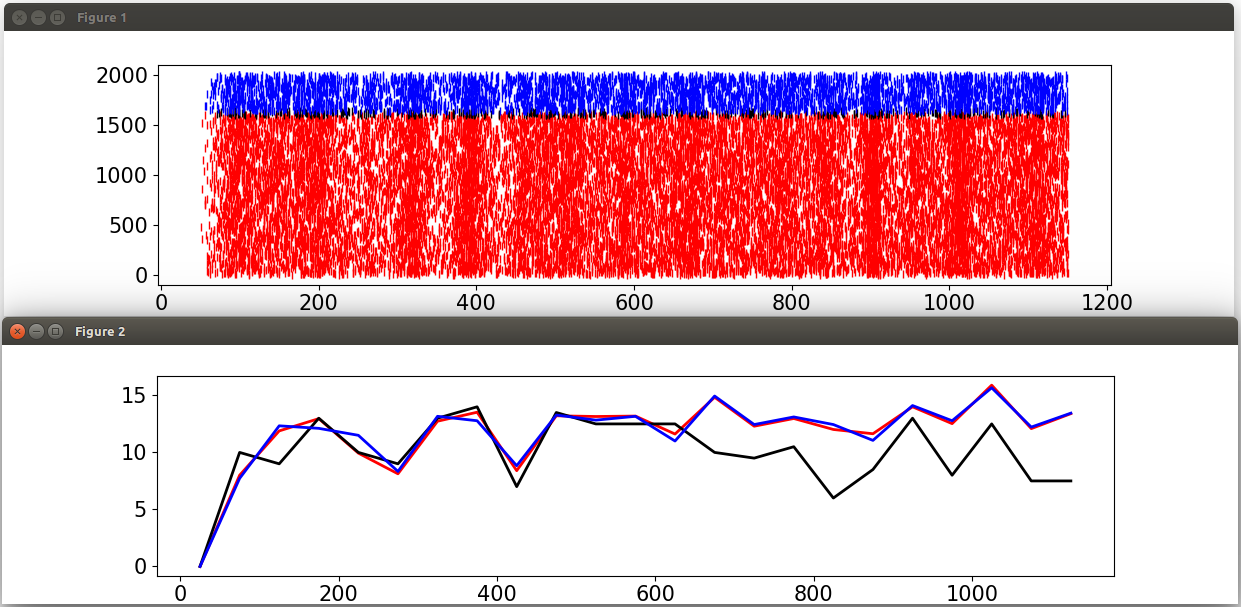
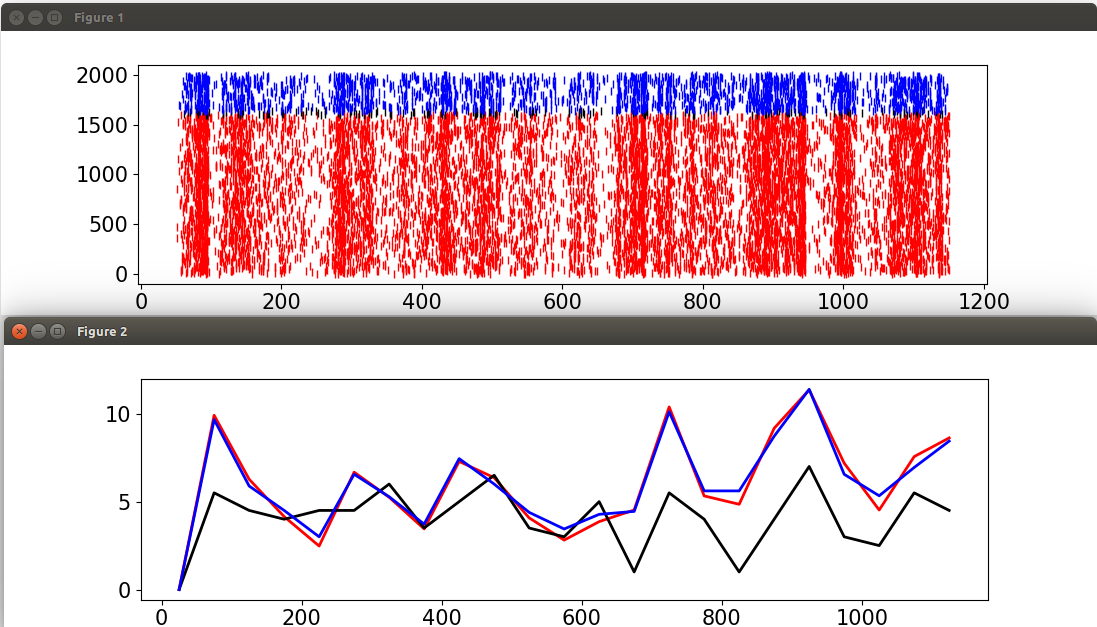
Adding changes by @sdrsd for testing 500 cell network

diff --git a/PyNN/runNetwork.py b/PyNN/runNetwork.py
@@ -19,7 +19,7 @@ def runNetwork(Be,
                dt = defaultParams.dt, 
                N_rec_v = 5, 
                save=False, 
-               simtime = defaultParams.Tstim+defaultParams.Tblank+defaultParams.Ttrans, 
+               simtime = defaultParams.Tpost+defaultParams.Tstim+defaultParams.Tblank+defaultParams.Ttrans, 
                extra = {}):
     
     exec("from pyNN.%s import *" % simulator_name) in globals()
@@ -44,9 +44,8 @@ def runNetwork(Be,
     r_extra = np.zeros(N)
     r_extra[NE:NE+nn_stim] = defaultParams.r_stim
 
-    rr1 = defaultParams.r_bkg*np.ones(N)
+    rr1 = defaultParams.r_bkg*np.random.uniform(.75,1.25, N)
     rr2 = rr1 + r_extra
-    
     
     rank = setup(timestep=dt, max_delay=defaultParams.delay_default, reference='ISN', **extra)
     
@@ -66,7 +65,7 @@ def runNetwork(Be,
     timer.start()  # start timer on construction
     
     print("%d Setting up random number generator" % rank)
-    kernelseed = 123456
+    kernelseed = 123
     rng = NumpyRNG(kernelseed, parallel_safe=True)
     
     
@@ -113,11 +112,15 @@ def runNetwork(Be,
     
     p_rate = defaultParams.r_bkg+defaultParams.r_stim
     print("%d Creating excitatory Poisson generator with rate %g spikes/s." % (rank, p_rate))
-    source_typeC = SpikeSourcePoisson(rate=p_rate, start=defaultParams.Ttrans+defaultParams.Tblank)
+    source_typeC = SpikeSourcePoisson(rate=p_rate, start=defaultParams.Ttrans+defaultParams.Tblank, duration=defaultParams.Tstim)
     expoissonC = Population(nn_stim, source_typeC, label="pert_stim")
+
+    p_rate = defaultParams.r_bkg
+    print("%d Creating excitatory Poisson generator with rate %g spikes/s." % (rank, p_rate))
+    source_typeD = SpikeSourcePoisson(rate=p_rate, start=defaultParams.Ttrans+defaultParams.Tblank+defaultParams.Tstim)
+    expoissonD = Population(nn_stim, source_typeD, label="pert_poststim")
     
-    
-    
+
     progress_bar = ProgressBar(width=20)
     connector_E = FixedProbabilityConnector(0.15, rng=rng, callback=progress_bar)
     connector_I = FixedProbabilityConnector(1, rng=rng, callback=progress_bar)
@@ -137,9 +140,9 @@ def runNetwork(Be,
     print("E --> E\t\t", len(E_to_E), "connections")
     E_to_I = Projection(E_pop, I_pop, connector_E, EI_syn, receptor_type="excitatory")
     print("E --> I\t\t", len(E_to_I), "connections")
-    I_to_I = Projection(I_pop, I_pop, connector_I, II_syn, receptor_type="excitatory")
+    I_to_I = Projection(I_pop, I_pop, connector_I, II_syn, receptor_type="inhibitory")
     print("I --> I\t\t", len(I_to_I), "connections")
-    I_to_E = Projection(I_pop, E_pop, connector_I, IE_syn, receptor_type="excitatory")
+    I_to_E = Projection(I_pop, E_pop, connector_I, IE_syn, receptor_type="inhibitory")
     print("I --> E\t\t", len(I_to_E), "connections")
     
     
@@ -149,6 +152,8 @@ def runNetwork(Be,
     print("input --> %s cells post pert\t"%len(I_nonpert_pop), len(input_B), "connections")
     input_C = Projection(expoissonC, I_pert_pop, ext_Connector, ext_syn_stim, receptor_type="excitatory")
     print("input --> %s cells pre pert\t"%len(I_pert_pop), len(input_C), "connections")
+    input_D = Projection(expoissonD, I_pert_pop, ext_Connector, ext_syn_stim, receptor_type="excitatory")
+    print("input --> %s cells pre pert\t"%len(I_pert_pop), len(input_D), "connections")
     
     
     # Record spikes
@@ -218,15 +223,15 @@ if __name__ == '__main__':
     
     simulator_name = get_script_args(1)[0]
     
-    Be=.1
-    Bi=-.1
+    Be=.4
+    Bi=.5
     N_rec_v = 20
     
     if '-small' in sys.argv:
-        size = 100
+        size = 500
         defaultParams.set_total_population_size(size)
-        N_rec_v = size
-        
+        N_rec_v = 10#size
+    
     fraction_to_stim = 0.75
     if len(sys.argv)==3:
         try:
@@ -237,9 +242,9 @@ if __name__ == '__main__':
     nn_stim_rng = (np.array([fraction_to_stim])*defaultParams.NI).astype('int')
     
     if '-small' in sys.argv:
-        nn_stim_rng = (np.array([0.75])*defaultParams.NI).astype('int')
-        defaultParams.r_bkg = 9000
-        defaultParams.r_stim = -400
+        nn_stim_rng = (np.array([0.95])*defaultParams.NI).astype('int')
+        defaultParams.r_bkg = 9.6e3
+        defaultParams.r_stim = -100
 
     if '-nogui' in sys.argv:
         show_gui = False

diff --git a/SpikingSimulationModels/defaultParams.py b/SpikingSimulationModels/defaultParams.py
@@ -10,9 +10,10 @@ import matplotlib
 n_cores = 4
 
 # define the NEST path if it's needed
-nest_path = '/Users/sadra/NEST/nest/ins/lib/python3.4/site-packages/'
-if os.path.exists(nest_path):
-    sys.path.append(nest_path)
+#nest_path = '/Users/sadra/NEST/nest/ins/lib/python3.4/site-packages/'
+#nest_path = '/Users/sadra/NEST/lib/python3.5/site-packages/'
+#if os.path.exists(nest_path):
+#    sys.path.append(nest_path)
 
 #------------- neuron params
 
@@ -85,6 +86,8 @@ Ttrans = 150.
 Tblank= 500.
 # simulation time of perturbation (ms)
 Tstim = 500.
+# time after perturbation
+Tpost = 0.
 
 # number of trials
 Ntrials = 5

diff --git a/PyNN/analysis_perturbation_pynn.py b/PyNN/analysis_perturbation_pynn.py
@@ -14,9 +14,15 @@ Tblank= defaultParams.Tblank
 # simulation time of perturbation (ms)
 Tstim = defaultParams.Tstim
 # time after perturbation
-Tpost =  0 # 500.
+Tpost =  defaultParams.Tpost
 
 T = Ttrans+Tblank+Tstim #+Tpost
+
+
+if '-small' in sys.argv:
+    size = 500
+    defaultParams.set_total_population_size(size)
+
 N = defaultParams.N
 NE = defaultParams.NE
 NI = defaultParams.NI
